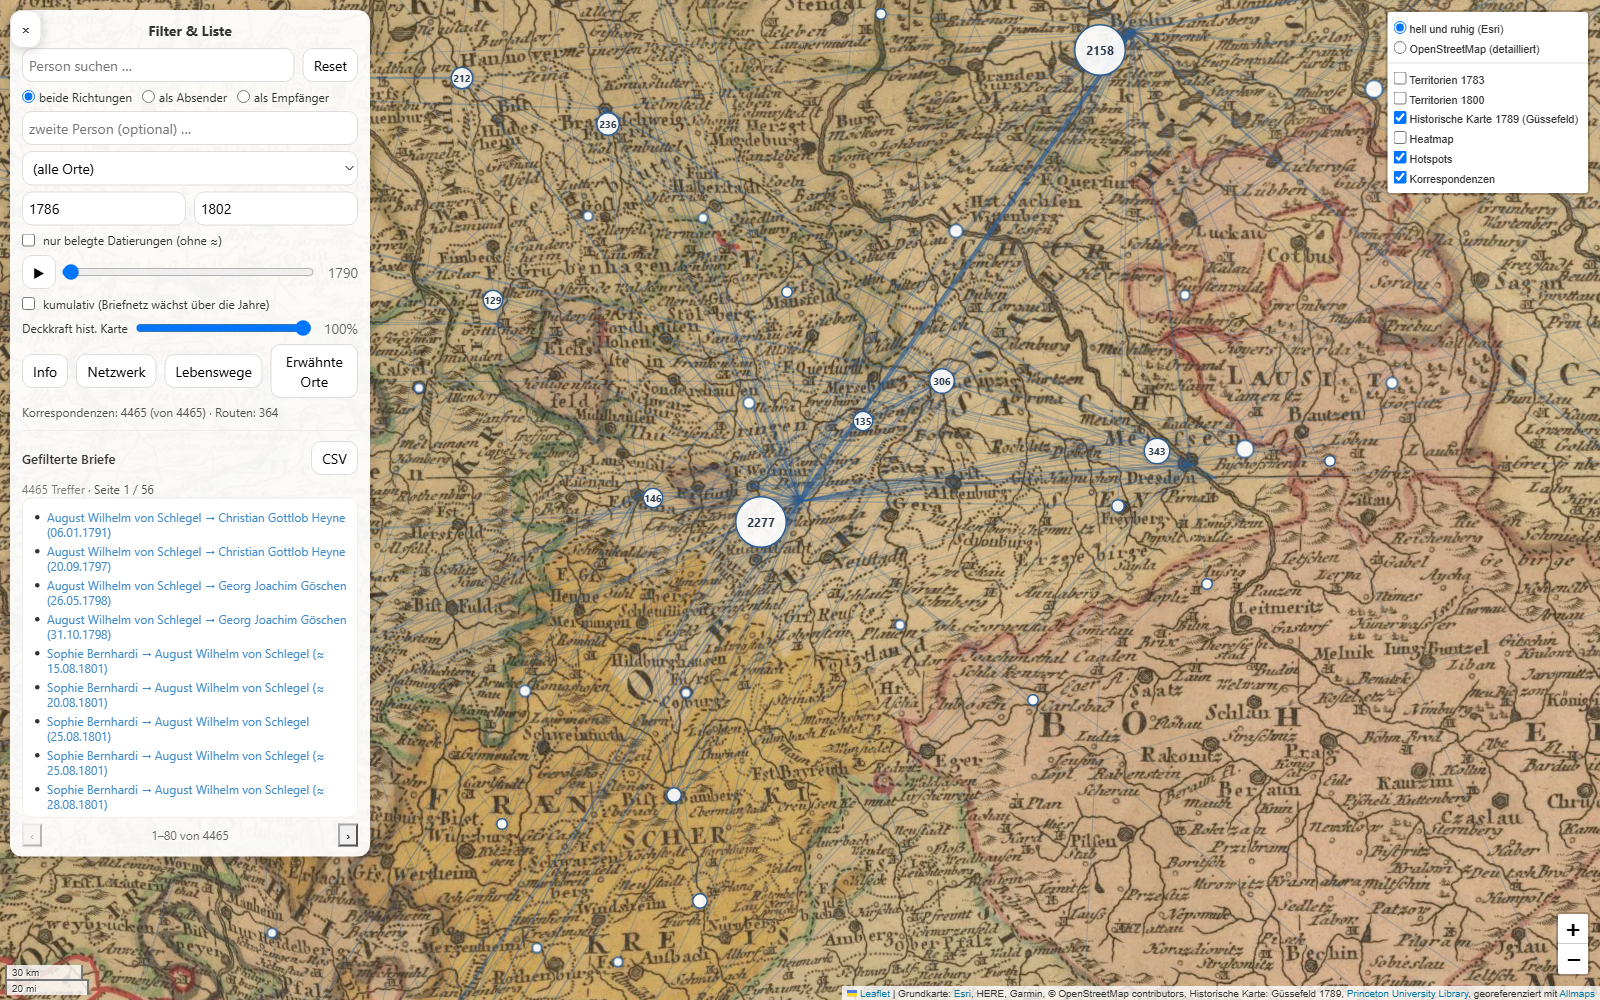
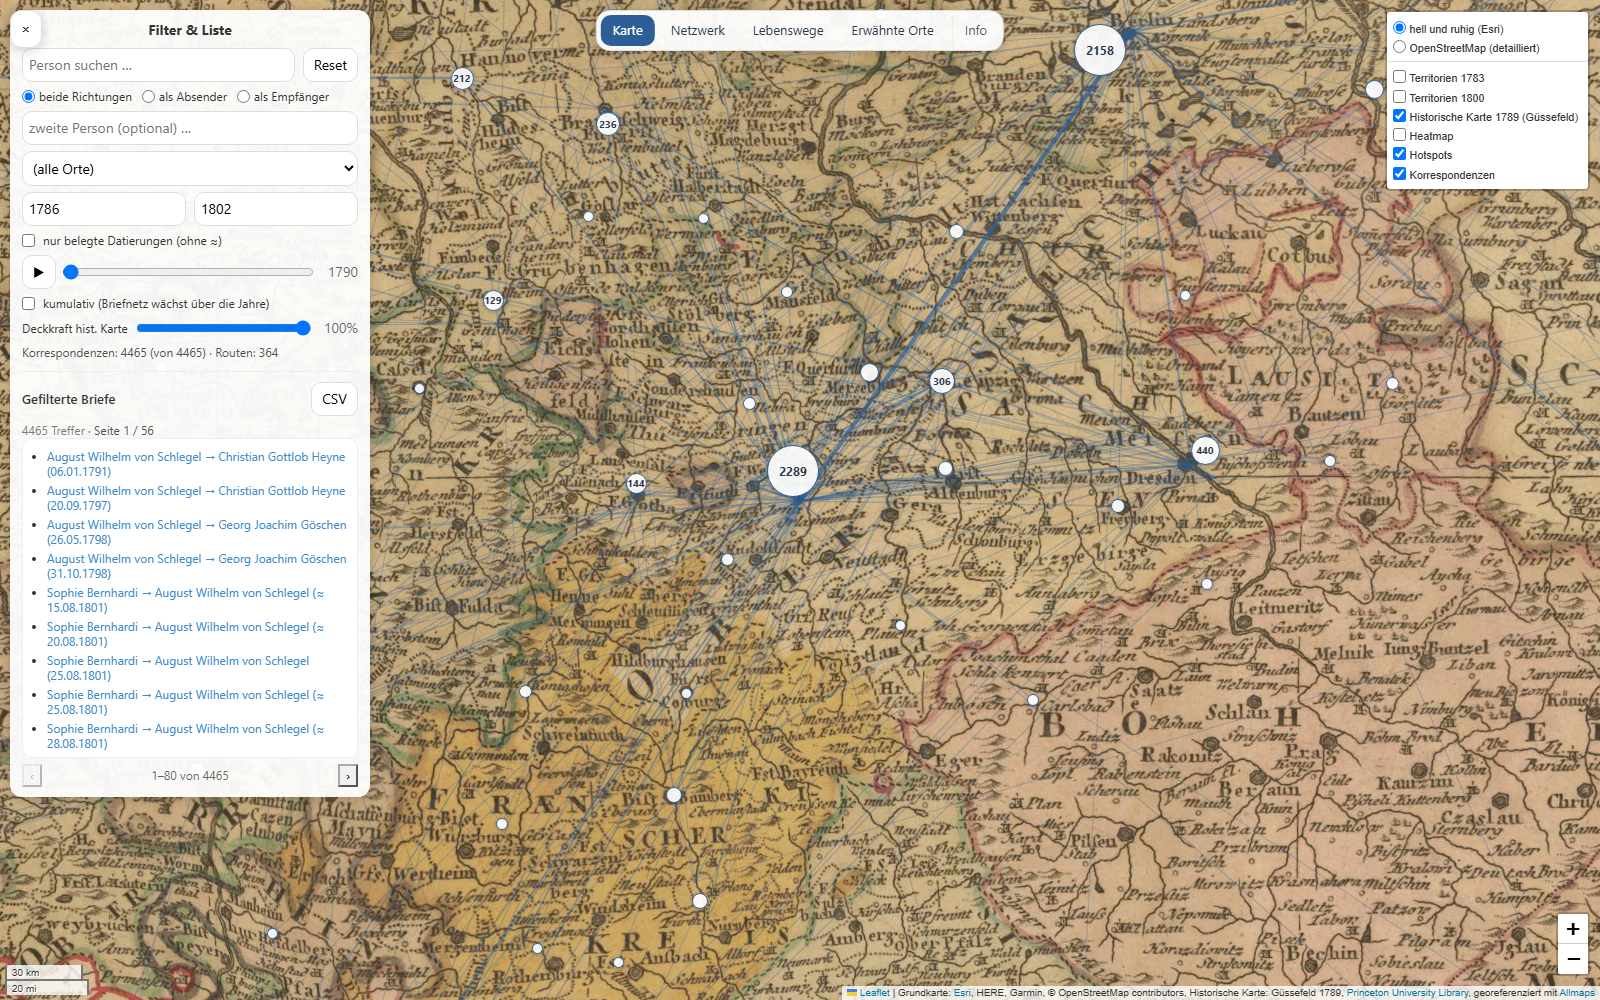
docs: the new opening state and the view bar
All eight screenshots retaken -- the map now opens with hotspots and carries the
view switch above it. Described in the README besides: the three zones of the
interface, and why Netzwerk, Lebenswege and Erwähnte Orte are views rather than
map functions.

diff --git a/README.md b/README.md
@@ -156,7 +156,12 @@ Diese Dateien bilden die **Grundlage aller weiteren Analysen und Visualisierunge
 
 **Zweck**
 - Erzeugung der interaktiven Karte mit **Folium und JavaScript**
-- Aufbau der Benutzeroberfläche (Sidebar)
+- Aufbau der Benutzeroberfläche: drei Zonen — Filter und Trefferliste links,
+  Ebenen rechts, Ansichtswechsel oben (`Karte · Netzwerk · Lebenswege · Erwähnte
+  Orte · Info`). Netzwerk, Lebenswege und Erwähnte Orte sind keine Kartenfunktionen,
+  sondern eigene Lesarten desselben Bestands — zwei davon bringen eine eigene
+  Leaflet-Instanz mit; die Leiste liegt über den Ansichten, man kann also direkt
+  zwischen ihnen wechseln
 - Filter nach:
   - Person (Suchfeld über alle Personen, findet auch Teilnamen wie „Schlegel"),
     wahlweise eingeschränkt auf ihre Rolle als Absender oder Empfänger
@@ -177,7 +182,8 @@ Diese Dateien bilden die **Grundlage aller weiteren Analysen und Visualisierunge
     77 % ab 1795) und zeigt Batavische und Helvetische Republik. Aufbereitet von
     `tools/prepare_borders.py`; Beschriftungen erscheinen zoomabhängig, damit
     Kleinstaaten die Übersicht nicht zustellen
-  - Hotspots als Proportionalkreise (Kreisfläche und Zahl = Briefanzahl im aktiven
+  - Hotspots als Proportionalkreise, von Anfang an sichtbar (Kreisfläche und Zahl =
+    Briefanzahl im aktiven
     Filter — Kreise wachsen, schrumpfen und verschwinden mit Person-/Ort-/Jahresfilter
     und Zeit-Animation; benachbarte Orte verschmelzen beim Herauszoomen und teilen
     sich per Klick). Auch die Orts-Popups (Anzahl, Beispiele, Listen-Button) werden
@@ -327,8 +333,8 @@ pip install -r requirements.txt
     (Güssefeld 1789; Digitalisat: Princeton University Library, per IIIF)
   - d3.js via jsDelivr-CDN (nur für die Netzwerk-Ansicht)
   - Verlinkungen auf öffentlich zugängliche Briefquellen (briefe-der-romantik.de)
-- Die Karte startet bewusst ruhig: Hotspots und Heatmap sind zunächst aus und
-  werden oben rechts zugeschaltet.
+- Die Karte startet mit Routen und Hotspots; die Heatmap und die historischen
+  Ebenen werden oben rechts zugeschaltet.
 - Bei Veröffentlichung sollte die Datenschutzerklärung auf externe Kartendienste,
   CDN-Einbindung und ausgehende Links hinweisen.
 
